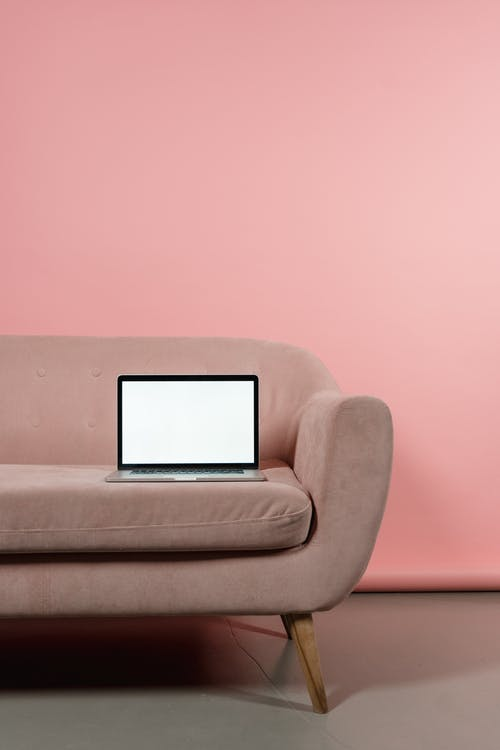
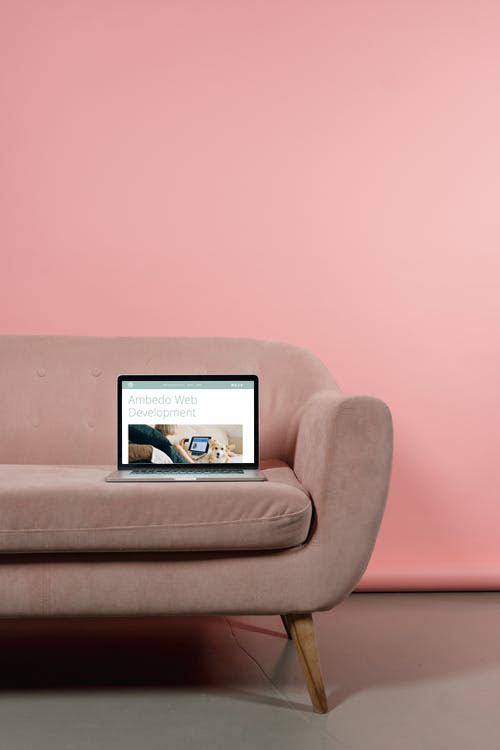
updating contact form

Changed region(s): [[0.24, 0.4907, 0.51, 0.644]]

diff --git a/docs/contact.html b/docs/contact.html
@@ -261,8 +261,8 @@
     
         <div class="body-text">
             <div class="body-text__container container">
-                <p class="body-text__text">I am currently looking for full time opportunities as a developer. I am only considering fully remote work and a competitive salary.</p>
-                <p class="body-text__text">Want to get in touch with me? Feel free to drop me a message using the contact form below!</p>
+                <p class="body-text__text">Are you interested in having a site developed for your needs by Ambedo Web Development?</p>
+                <p class="body-text__text">Fill out the form below and I'll be in touch with what I can do for you!</p>
             </div>
         </div>
 
@@ -276,7 +276,7 @@
                 <input type="text" name="last_name" id="last_name" class="contact-form__input">
             </input></div>
             <div class="contact-form__item contact-form__item--half">
-                <label for="company" class="contact-form__label">company</label>
+                <label for="company" class="contact-form__label">your business</label>
                 <input type="text" name="company" id="company" class="contact-form__input contact-form__input--title">
             </input></div>
             <div class="contact-form__item contact-form__item--half">

diff --git a/src/contact.html b/src/contact.html
@@ -18,8 +18,8 @@
     
         <div class="body-text">
             <div class="body-text__container container">
-                <p class="body-text__text">I am currently looking for full time opportunities as a developer. I am only considering fully remote work and a competitive salary.</p>
-                <p class="body-text__text">Want to get in touch with me? Feel free to drop me a message using the contact form below!</p>
+                <p class="body-text__text">Are you interested in having a site developed for your needs by Ambedo Web Development?</p>
+                <p class="body-text__text">Fill out the form below and I'll be in touch with what I can do for you!</p>
             </div>
         </div>
 
@@ -33,7 +33,7 @@
                 <input type="text" name="last_name" id="last_name" class="contact-form__input">
             </div>
             <div class="contact-form__item contact-form__item--half">
-                <label for="company" class="contact-form__label">company</label>
+                <label for="company" class="contact-form__label">your business</label>
                 <input type="text" name="company" id="company" class="contact-form__input contact-form__input--title">
             </div>
             <div class="contact-form__item contact-form__item--half">

diff --git a/docs/index.html b/docs/index.html
@@ -278,7 +278,7 @@
     <section class="accordion-image @@classname">
     <div class="accordion-image__container container">
         <div class="image image--accordion-image @@classname_image">
-    <img src="./assets/images/dog-laptop-sofa.jpeg" alt="">
+    <img src="./assets/images/grid/laptop-sofa.jpeg" alt="">
     
 </img></div>
 

diff --git a/src/index.html b/src/index.html
@@ -32,7 +32,7 @@
     </div>
 
     @@include('accordion-image.html', {
-      'image': './assets/images/dog-laptop-sofa.jpeg',
+      'image': './assets/images/grid/laptop-sofa.jpeg',
     })
 
     <div class="body-text body-text--full-width">

diff --git a/src/assets/scss/blocks/components/_image.scss b/src/assets/scss/blocks/components/_image.scss
@@ -112,5 +112,4 @@
         display: block;
  
     }
-
 }
